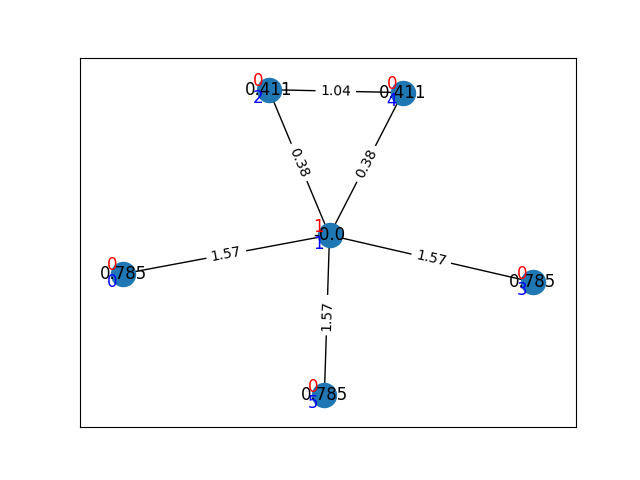
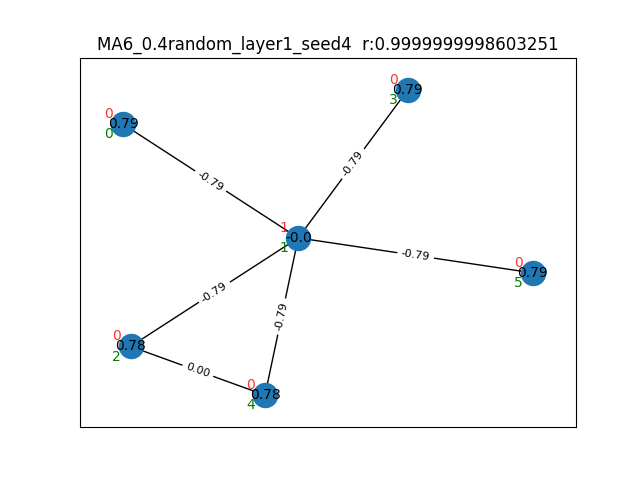
Automated commit

diff --git a/src_code/build_operators.py b/src_code/build_operators.py
@@ -98,7 +98,9 @@ def cut_unitary(graph, parameter, dict_paulis):
     for edge in graph.edges:
 
         weight = graph.get_edge_data(*edge)['weight']
-        total_param = 0.5 * parameter * weight
+        #原代码*0.5
+        # total_param = 0.5 * parameter * weight
+        total_param = parameter * weight
         key = 'Z' + str(edge[0]) + 'Z' + str(edge[1])
 
         if key not in dict_paulis:
@@ -106,7 +108,9 @@ def cut_unitary(graph, parameter, dict_paulis):
         if key not in dict_paulis:
             raise Exception(key)
         
-        tmp_matrix = dict_paulis['I'] * math.cos(total_param) + dict_paulis[key] * math.sin(total_param) * 1j
+        # 原代码为+
+        # tmp_matrix = dict_paulis['I'] * math.cos(total_param) + dict_paulis[key] * math.sin(total_param) * 1j
+        tmp_matrix = dict_paulis['I'] * math.cos(total_param) - dict_paulis[key] * math.sin(total_param) * 1j
 
         if first:
             result = tmp_matrix
@@ -128,15 +132,20 @@ def MA_cut_unitary(graph, parameter, dict_paulis):
     for edge in graph.edges:
 
         weight = graph.get_edge_data(*edge)['weight']
-        total_param = 0.5 * parameter[i] * weight
-        key = 'Z' + str(edge[0]) + 'Z' + str(edge[1])
-
-        if key not in dict_paulis:
+        # total_param = 0.5 * parameter[i] * weight
+        total_param = parameter[i] * weight
+        if(edge[0] < edge[1]):
+            key = 'Z' + str(edge[0]) + 'Z' + str(edge[1])
+        else:
             key = 'Z' + str(edge[1]) + 'Z' + str(edge[0])
-        if key not in dict_paulis:
-            raise Exception
+
+        # if key not in dict_paulis:
+        #     key = 'Z' + str(edge[1]) + 'Z' + str(edge[0])
+        # if key not in dict_paulis:
+        #     raise Exception
         
-        tmp_matrix = dict_paulis['I'] * math.cos(total_param) + dict_paulis[key] * math.sin(total_param) * 1j
+        # tmp_matrix = dict_paulis['I'] * math.cos(total_param) + dict_paulis[key] * math.sin(total_param) * 1j
+        tmp_matrix = dict_paulis['I'] * math.cos(total_param) - dict_paulis[key] * math.sin(total_param) * 1j
 
         if first:
             result = tmp_matrix
@@ -527,8 +536,8 @@ def build_XinY_qaoa_ansatz(graph, parameter_list, pauli_dict):
     return dens_mat
 
 def build_MA_qaoa_ansatz(graph, parameter_list, no_layers, pauli_dict, mode):
-    no_edges = graph.number_of_edges() # Problem
-    no_qubits = graph.number_of_nodes() # Mixer
+    no_edges = graph.number_of_edges() 
+    no_qubits = graph.number_of_nodes() 
     dens_mat = initial_density_matrix(no_qubits)
 
     #! 只改Mixer

diff --git a/MA_QAOA_All.py b/MA_QAOA_All.py
@@ -13,8 +13,8 @@ def MA_All(no_vertices, depth, seed, graph_type, save = True):
     # p = 0.4
     # graph = generate_graphs.generate_connected_graph(no_vertices, seed, p)[0]
     # graph = generate_graphs.generate_regular_graph(no_vertices, 3, seed)[0]
-    gamma_0 = 0.7
-    beta_0 = 0.0
+    gamma_0 = 0
+    beta_0 = 0.785
     graph = generate_graphs.generate_graph_type(no_vertices, graph_type, seed)[0]
 
     no_edges = graph.number_of_edges()
@@ -27,7 +27,6 @@ def MA_All(no_vertices, depth, seed, graph_type, save = True):
     max_cut_value = max_cut_solution[1]
     max_ham_eigenvalue = max_cut_solution[2]
     #! 初始化完成
-    print(f'layers:{depth} MA-All')
 
     def obj_func(parameter_values):
         dens_mat = build_operators.build_MA_qaoa_ansatz(graph, parameter_values, depth, pauli_ops_dict, 'All')
@@ -43,6 +42,8 @@ def MA_All(no_vertices, depth, seed, graph_type, save = True):
     hamiltonian_expectation = (hamiltonian * dens_mat).trace().real
     cut_approx_ratio = (hamiltonian_expectation + max_cut_value - max_ham_eigenvalue) / max_cut_value
 
+    print(f'layers:{depth} MA-All')
+    print('***************')
     print(f'cut_approx_ratio: {cut_approx_ratio}')
     if(save):
         with open(f"./results/parameters/MA{no_vertices}_{graph_type[1]}{graph_type[0]}_layer{depth}_seed{seed}", 'w') as f:
@@ -81,6 +82,7 @@ def MA_All(no_vertices, depth, seed, graph_type, save = True):
                 pos[i] += np.array([0.0, -0.12]) 
             nx.draw_networkx_labels(graph, pos, font_color="g", font_size=10)
 
+            plt.title(f'MA{no_vertices}_{graph_type[1]}{graph_type[0]}_layer{depth}_seed{seed}  r:{cut_approx_ratio}')
             plt.savefig(f"./results/figures/{graph_type[1]}{graph_type[0]}/MA{no_vertices}_{graph_type[1]}{graph_type[0]}_layer{depth}_seed{seed}.png")
 
     print('-----------------------------------------------')

diff --git a/standard_QAOA.py b/standard_QAOA.py
@@ -10,11 +10,11 @@ seed = 0
 p = 0.4
 graph = generate_graphs.generate_connected_graph(no_vertices, p, seed)[0]
 # graph = generate_graphs.generate_regular_graph(no_vertices,3,seed)[0]
-# graph = generate_graphs.generate_graph_type(no_vertices, )
+# graph = generate_graphs.generate_graph_type(no_vertices, graph_type, )
 print(f'layers:{depth} standard-QAOA')
 
 gamma_0 = 0.2
-beta_0 = 0.1
+beta_0 = 1
 
 max_cut_solution = useful_methods.find_optimal_cut(graph)
 max_cut_value = max_cut_solution[1]
@@ -38,7 +38,6 @@ dens_mat = build_operators.build_standard_qaoa_ansatz(graph, parameter_list, pau
 hamiltonian_expectation = (hamiltonian * dens_mat).trace().real
 ham_approx_ratio = hamiltonian_expectation / max_ham_eigenvalue
 cut_approx_ratio = (hamiltonian_expectation + max_cut_value - max_ham_eigenvalue) / max_cut_value
-
 
 print(f'cut_approx_ratio: {cut_approx_ratio}')
 print(f'gamma: {parameter_list[:depth]}')

diff --git a/main.py b/main.py
@@ -3,13 +3,13 @@ import MA_QAOA_All
 n = 8
 layer = 1
 seed = 0
-graph_type = ['random', 0.4]
+graph_type = ['random', 0.6]
 # graph_type = ['regular', 3]
-# save = True
 save = True
+
+# MA_QAOA_All.MA_All(n, 1, seed, graph_type, save)
 
 for seed in range(10):
     print('#')
     MA_QAOA_All.MA_All(n, layer, seed, graph_type, save)
 
-# MA_QAOA_All.MA_All(n, 1, seed, graph_type, save)

diff --git a/src_code/generate_graphs.py b/src_code/generate_graphs.py
@@ -24,7 +24,6 @@ def generate_complete_graph(n, seed, weights = False):
 
     return graph, weights
 
-
 def generate_connected_graph(n, p, seed, weights = False):
     """
 
